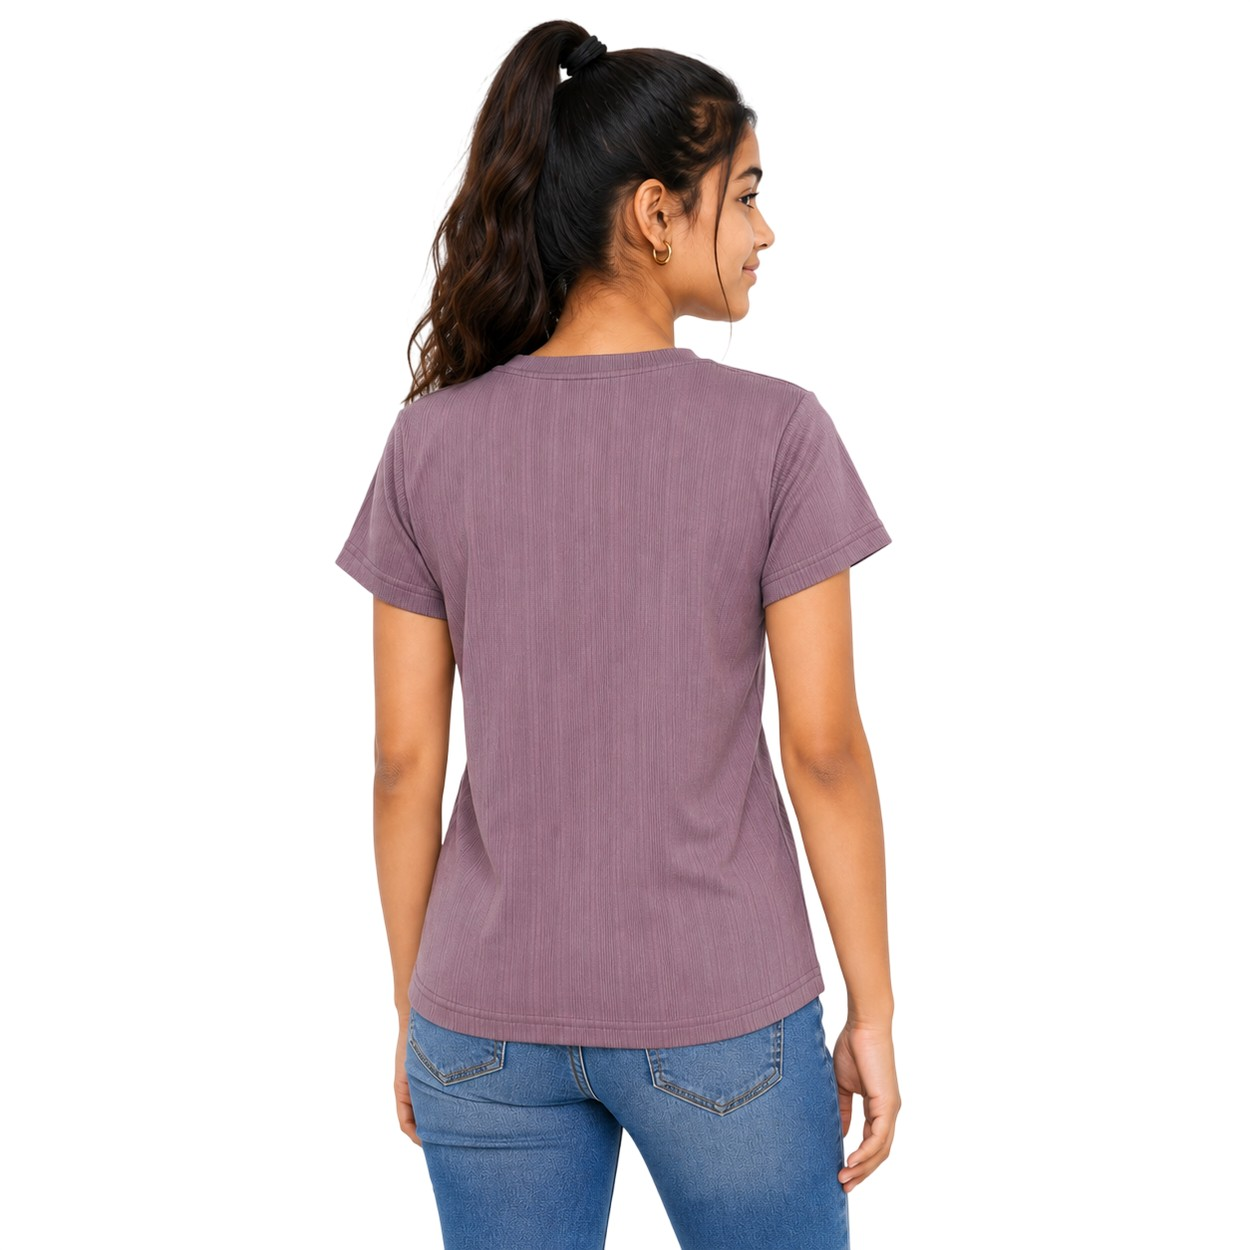
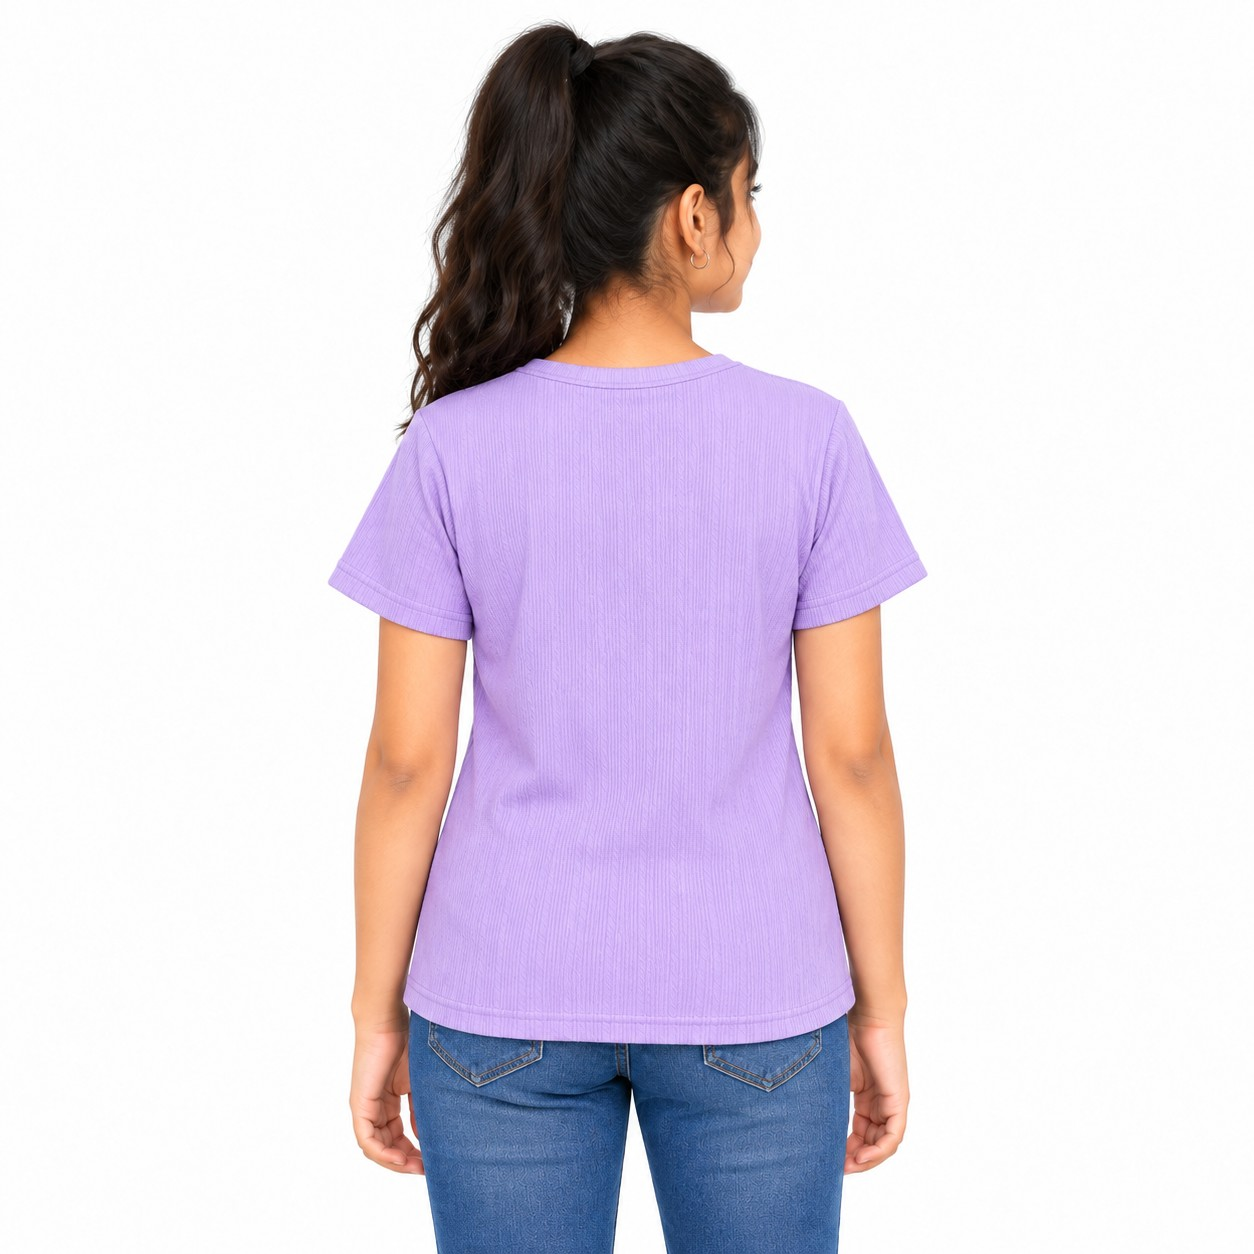
changes made today

Changed region(s): [[0.2496, 0.0, 0.7488, 1.0]]

diff --git a/src/data/products.js b/src/data/products.js
@@ -1762,13 +1762,14 @@ const kidsGirlsCatalog = [
   // Same "GIRLS T-SHIRT RNS" sheet, later rows — these three use the
   // plain 45-55/60-70/75/80/85 size run (not the 4 cm bands above), so no
   // sizeUnit here, matching the Hasna/Sana items further up.
-  { name: 'Girls T-Shirt – GT-507', fabric: 'Fancy', label: 'GT-507', menuParent: 'T-Shirt', heading: 'Girls Outerwear', excludeVariants: ['Classic Fit', 'Relaxed Fit'], colors: ['Lavender', 'Pink', 'Checked', 'Navy','Dusty Sage Green'], sizes: ['45', '50', '55', '60', '65', '70', '75', '80', '85'], sizePriceGroups: [['45', '50', '55'], ['60', '65', '70'], ['75'], ['80'], ['85']], sizePrices: [156, 156, 156, 168, 168, 168, 180, 192, 204], price: 156, discount: 0, image: '/images/products/girls/tshirt/colours/gt-507/tshirt-507-green.jpg', imageSide: '/images/products/girls/printed-t-shirt-side.jpg', imageBack: '/images/products/girls/printed-t-shirt-back.jpg',
+  { name: 'Girls T-Shirt – GT-507', fabric: 'Fancy', label: 'GT-507', menuParent: 'T-Shirt', heading: 'Girls Outerwear', excludeVariants: ['Classic Fit', 'Relaxed Fit'], colors: ['Lavender', 'Pink', 'Checked', 'Navy', 'Dusty Sage Green', 'DustyLavender'], sizes: ['45', '50', '55', '60', '65', '70', '75', '80', '85'], sizePriceGroups: [['45', '50', '55'], ['60', '65', '70'], ['75'], ['80'], ['85']], sizePrices: [156, 156, 156, 168, 168, 168, 180, 192, 204], price: 156, discount: 0, image: '/images/products/girls/tshirt/colours/gt-507/tshirt-507-green.jpg', imageSide: '/images/products/girls/printed-t-shirt-side.jpg', imageBack: '/images/products/girls/printed-t-shirt-back.jpg',
      colorImages: {
       Lavender: { image: '/images/products/girls/tshirt/colours/gt-507/tshirt-507-Lavender.jpg', imageBack: '/images/products/girls/tshirt/colours/gt-507/tshirt-507-Lavender-back.jpg' },
       'Dusty Sage Green': { image: '/images/products/girls/tshirt/colours/gt-507/tshirt-507-green.jpg',  imageBack: '/images/products/girls/tshirt/colours/gt-507/tshirt-507-green-back.jpg' },
       Navy: { image: '/images/products/girls/tshirt/colours/gt-507/tshirt-507-Navy.jpg',  imageBack: '/images/products/girls/tshirt/colours/gt-507/tshirt-507-Navy-back.jpg' },
       Checked: { image: '/images/products/girls/tshirt/colours/gt-507/tshirt-507-Checked.jpg', imageBack: '/images/products/girls/tshirt/colours/gt-507/tshirt-507-Checked-back.jpg' },
       Pink: { image: '/images/products/girls/tshirt/colours/gt-507/tshirt-507-pink.jpg',  imageBack: '/images/products/girls/tshirt/colours/gt-507/tshirt-507-pink-back.jpg' },
+      DustyLavender: { image: '/images/products/girls/tshirt/colours/gt-507/tshirt-507-DustyLavender.jpg',  imageBack: '/images/products/girls/tshirt/colours/gt-507/tshirt-507-DustyLavender-back.jpg' },
     },
   },
   { name: 'Girls T-Shirt – GT-508', fabric: 'Fancy', label: 'GT-508', menuParent: 'T-Shirt', heading: 'Girls Outerwear', excludeVariants: ['Classic Fit', 'Relaxed Fit'], colors: ['Grey', 'Pink', 'Brown', 'Blue', 'Navy','Green'], sizes: ['45', '50', '55', '60', '65', '70', '75', '80', '85'], sizePriceGroups: [['45', '50', '55'], ['60', '65', '70'], ['75'], ['80'], ['85']], sizePrices: [156, 156, 156, 168, 168, 168, 180, 192, 204], price: 156, discount: 0, image: '/images/products/girls/tshirt/colours/gt-508/tshirt-508-pink.jpg', imageSide: '/images/products/girls/printed-t-shirt-side.jpg', imageBack: '/images/products/girls/printed-t-shirt-back.jpg',
